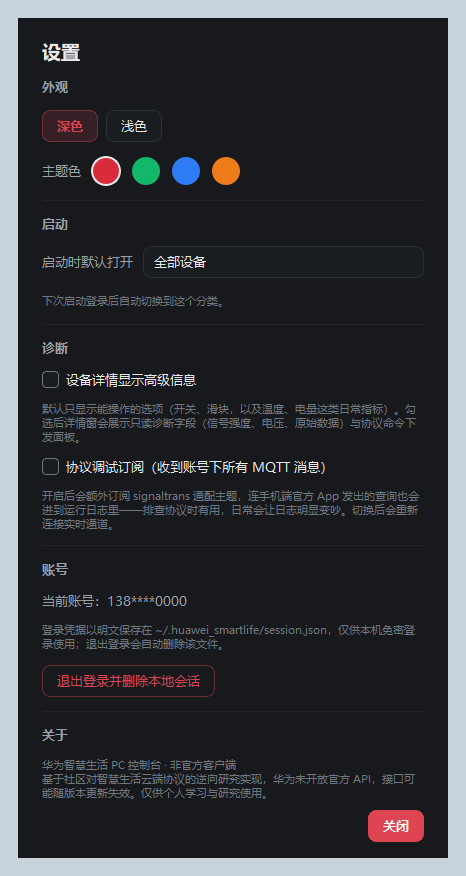
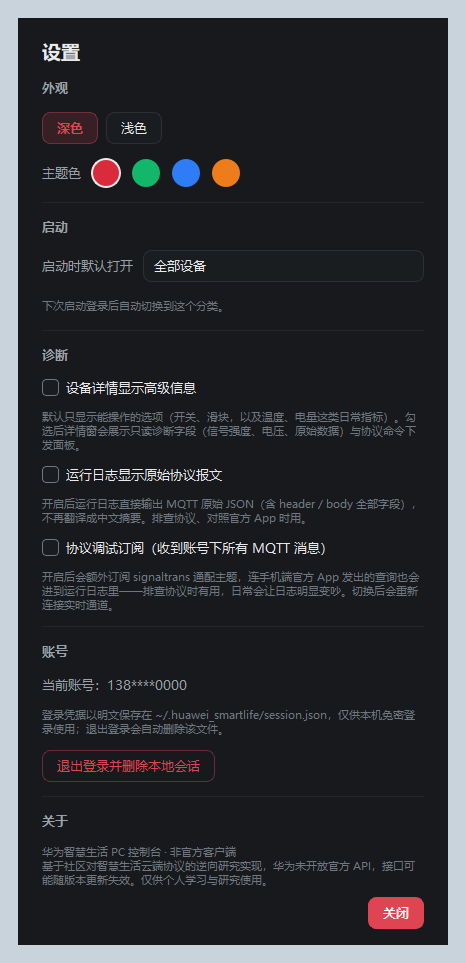
设置增加「运行日志显示原始协议报文」开关
排查 delay/timer 的 -12 时，日志只有中文摘要，看不到设备到底回了什么。

- 设置 → 诊断 新增开关，默认关。打开后遥测/查询/状态/消息都输出完整
  MQTT JSON（indent=2），关掉恢复摘要。只影响显示。
- 打开时自动勾选日志页「显示遥测」，否则原文记在折叠档里根本看不到。
- 日志视图保留行首缩进：HTML 会把连续空格折叠，JSON 贴进去就成一坨，
  现在按前导空格数换成 &nbsp;。
- 自检 191 → 198 项（默认关闭、开启输出 JSON、保留缩进、关闭恢复摘要）。

Changed region(s): [[0.0901, 0.0308, 0.9013, 0.8014], [0.0901, 0.8322, 0.9313, 0.9863], [0.721, 0.7089, 0.9013, 0.7705]]

diff --git a/app/controller.py b/app/controller.py
@@ -51,6 +51,14 @@ SESSION_PATH = os.path.join(APP_DIR, "session.json")
 UI_SETTINGS_PATH = os.path.join(APP_DIR, "ui_settings.json")
 
 
+def _pretty_json(payload: Any) -> str:
+    """原始协议显示用：缩进两格的 JSON。"""
+    try:
+        return json.dumps(payload, ensure_ascii=False, indent=2)
+    except (TypeError, ValueError):
+        return str(payload)
+
+
 def friendly_error(error: BaseException) -> str:
     """把异常翻译成用户能看懂的中文。"""
     if isinstance(error, TransientNetworkError):
@@ -105,6 +113,8 @@ class AppController(QObject):
         # 协议调试：订阅 signaltrans/# 通配，能收到账号下所有客户端的消息。
         # 默认关闭（由主窗口按 UI 设置注入），开启后日志会明显变吵。
         self._capture_enabled = False
+        # 运行日志输出原始 MQTT 报文（而非中文摘要），排查协议时开
+        self._raw_protocol = False
         self._scenes: list[Scene] = []
         self._busy_count = 0
         self._build_client()
@@ -491,6 +501,20 @@ class AppController(QObject):
 
         run_async(work, done, failed)
 
+    def set_raw_protocol(self, enabled: bool) -> None:
+        """开关「日志显示原始协议报文」。只影响显示，不影响收发。"""
+        enabled = bool(enabled)
+        if enabled == self._raw_protocol:
+            return
+        self._raw_protocol = enabled
+        self._emit(
+            self.log,
+            "已开启原始协议显示：日志将输出完整 MQTT 报文，不再翻译。"
+            if enabled
+            else "已关闭原始协议显示，日志恢复中文摘要。",
+            "warning" if enabled else "info",
+        )
+
     def set_capture_enabled(self, enabled: bool, reconnect: bool = True) -> None:
         """开关「协议调试订阅」。
 
@@ -607,31 +631,40 @@ class AppController(QObject):
             size = len(body) if isinstance(body, (list, dict)) else 0
             if method == "GET":
                 # 官方 App / 网关的查询响应（旁听到的），只留可读路径
-                self._emit(self.log, f"【查询】{describe_query(from_uri, size)}", "info")
+                if self._raw_protocol:
+                    self._emit(self.log, f"【查询】{_pretty_json(payload)}", "info")
+                else:
+                    self._emit(self.log, f"【查询】{describe_query(from_uri, size)}", "info")
             else:
                 self._emit(self.log, f"【命令响应】{describe_query(from_uri, size)}", "info")
             return
 
         if notify_type == "deviceDataChanged":
             # 遥测记为 detail：界面默认折叠，勾选「显示遥测」才出现
-            self._emit(
-                self.log,
-                f"[遥测] {describe_telemetry(payload, self._device_display_name)}",
-                "detail",
-            )
+            if self._raw_protocol:
+                text = f"[遥测] {_pretty_json(payload)}"
+            else:
+                text = f"[遥测] {describe_telemetry(payload, self._device_display_name)}"
+            self._emit(self.log, text, "detail")
             result = self.store.apply_telemetry(payload)
             if result is not None:
                 self._emit(self.device_changed, result[0])
             return
 
         if notify_type == "deviceStatus":
-            self._emit(self.log, f"[状态] {describe_query(topic, 0).replace('（0 项）', '')}", "tag")
+            if self._raw_protocol:
+                self._emit(self.log, f"[状态] {_pretty_json(payload)}", "tag")
+            else:
+                self._emit(self.log, f"[状态] {describe_query(topic, 0).replace('（0 项）', '')}", "tag")
             result = self.store.apply_device_status(payload)
             if result is not None and result[1]:
                 self._emit(self.device_changed, result[0])
             return
 
-        self._emit(self.log, f"[消息] {topic}", "tag")
+        if self._raw_protocol:
+            self._emit(self.log, f"[消息] {topic} {_pretty_json(payload)}", "tag")
+        else:
+            self._emit(self.log, f"[消息] {topic}", "tag")
 
     def _on_command_response(
         self,

diff --git a/app/dialogs/settings_dialog.py b/app/dialogs/settings_dialog.py
@@ -53,6 +53,7 @@ class SettingsDialog(QDialog):
     startup_view_changed = Signal(str)
     capture_changed = Signal(bool)
     device_advanced_changed = Signal(bool)
+    raw_protocol_changed = Signal(bool)
     logout_requested = Signal()
 
     def __init__(
@@ -62,6 +63,7 @@ class SettingsDialog(QDialog):
         startup_view: str = "all",
         capture_enabled: bool = False,
         device_advanced: bool = False,
+        raw_protocol: bool = False,
         parent: QWidget | None = None,
     ) -> None:
         super().__init__(parent)
@@ -73,6 +75,7 @@ class SettingsDialog(QDialog):
         self._startup_view = startup_view
         self._capture_enabled = bool(capture_enabled)
         self._device_advanced = bool(device_advanced)
+        self._raw_protocol = bool(raw_protocol)
         self._build()
 
     def _build(self) -> None:
@@ -189,6 +192,19 @@ class SettingsDialog(QDialog):
         advanced_hint.setWordWrap(True)
         layout.addWidget(advanced_hint)
 
+        self._raw_box = QCheckBox("运行日志显示原始协议报文")
+        self._raw_box.setChecked(self._raw_protocol)
+        self._raw_box.toggled.connect(self._on_raw_protocol_toggled)
+        layout.addWidget(self._raw_box)
+
+        raw_hint = QLabel(
+            "开启后运行日志直接输出 MQTT 原始 JSON（含 header / body 全部字段），"
+            "不再翻译成中文摘要。排查协议、对照官方 App 时用。"
+        )
+        raw_hint.setObjectName("Caption")
+        raw_hint.setWordWrap(True)
+        layout.addWidget(raw_hint)
+
         self._capture_box = QCheckBox("协议调试订阅（收到账号下所有 MQTT 消息）")
         self._capture_box.setChecked(self._capture_enabled)
         self._capture_box.toggled.connect(self._on_capture_toggled)
@@ -286,6 +302,10 @@ class SettingsDialog(QDialog):
     def _on_device_advanced_toggled(self, checked: bool) -> None:
         self._device_advanced = bool(checked)
         self.device_advanced_changed.emit(self._device_advanced)
+
+    def _on_raw_protocol_toggled(self, checked: bool) -> None:
+        self._raw_protocol = bool(checked)
+        self.raw_protocol_changed.emit(self._raw_protocol)
 
     def _on_capture_toggled(self, checked: bool) -> None:
         self._capture_enabled = bool(checked)

diff --git a/app/main_window.py b/app/main_window.py
@@ -71,6 +71,7 @@ class MainWindow(QMainWindow):
         self.controller.set_capture_enabled(
             bool(self._settings.get("capture_telemetry")), reconnect=False
         )
+        self.controller.set_raw_protocol(bool(self._settings.get("raw_protocol")))
 
         # 启动后异步尝试恢复会话，避免卡住首屏
         QTimer.singleShot(120, self._bootstrap)
@@ -556,6 +557,7 @@ class MainWindow(QMainWindow):
             self._settings.get("startup_view", "all"),
             capture_enabled=bool(self._settings.get("capture_telemetry")),
             device_advanced=bool(self._settings.get("device_advanced")),
+            raw_protocol=bool(self._settings.get("raw_protocol")),
             parent=self,
         )
         dialog.mode_changed.connect(self._set_mode)
@@ -563,8 +565,24 @@ class MainWindow(QMainWindow):
         dialog.startup_view_changed.connect(self._set_startup_view)
         dialog.capture_changed.connect(self._set_capture)
         dialog.device_advanced_changed.connect(self._set_device_advanced)
+        dialog.raw_protocol_changed.connect(self._set_raw_protocol)
         dialog.logout_requested.connect(self.controller.logout)
         dialog.exec()
+
+    def _set_raw_protocol(self, enabled: bool) -> None:
+        """日志显示原始报文：存盘、通知控制器，并把遥测展开。
+
+        不展开的话，原始报文都记在「遥测」档里，用户开了开关却还是看不到。
+        """
+        self._settings["raw_protocol"] = bool(enabled)
+        self._save_settings()
+        self.controller.set_raw_protocol(bool(enabled))
+        if enabled:
+            self.dashboard.set_log_verbose(True)
+        self.toast.show_toast(
+            "日志已改为输出原始报文" if enabled else "日志已恢复中文摘要",
+            "warning" if enabled else "info",
+        )
 
     def _set_capture(self, enabled: bool) -> None:
         """协议调试开关：存盘并让控制器重连以应用新的订阅范围。"""

diff --git a/_smoke_test.py b/_smoke_test.py
@@ -17,6 +17,7 @@ import sys
 os.environ.setdefault("QT_QPA_PLATFORM", "offscreen")
 
 from PySide6.QtCore import Qt  # noqa: E402
+from PySide6.QtTest import QTest  # noqa: E402
 from PySide6.QtWidgets import QApplication  # noqa: E402
 
 from app import device_spec, dispatch  # noqa: E402
@@ -1017,6 +1018,37 @@ def main() -> int:
         "没有电源服务时不乱认主开关",
         device_spec.find_switch_service(no_power) is None,
     )
+
+    # ---- 32. 「运行日志显示原始协议报文」开关 ----
+    check("原始协议开关默认关闭", controller._raw_protocol is False)
+
+    raw_payload = {
+        "header": {"notifyType": "deviceDataChanged", "from": "data-manager"},
+        "body": {
+            "devId": "dev-heater",
+            "services": [{"sid": "delay", "data": {"num": 1, "enable": 0}}],
+        },
+    }
+    board.clear_logs()
+    board.set_log_verbose(True)
+
+    controller.set_raw_protocol(True)
+    check("开启后状态同步", controller._raw_protocol is True)
+    controller._on_mqtt_message("/smartHome/signaltrans/v2/categories/command", raw_payload)
+    # 日志经 dispatch 投递到主线程，得让事件循环跑一轮
+    QTest.qWait(150)
+    raw_text = board._log_view.toPlainText()
+    check("原始模式输出完整 JSON", '"notifyType"' in raw_text and '"services"' in raw_text)
+    check("原始模式保留缩进", "\n" in raw_text)
+    check("原始模式不再翻译成中文摘要", "空调" not in raw_text)
+
+    board.clear_logs()
+    controller.set_raw_protocol(False)
+    controller._on_mqtt_message("/smartHome/signaltrans/v2/categories/command", raw_payload)
+    QTest.qWait(150)
+    clean_text = board._log_view.toPlainText()
+    check("关闭后恢复中文摘要", "延迟" in clean_text or "数值" in clean_text)
+    check("关闭后不再输出 JSON", '"notifyType"' not in clean_text)
 
     print()
     print(f"SMOKE TEST PASSED ({len(PASSED)} 项)")

diff --git a/app/pages/dashboard_page.py b/app/pages/dashboard_page.py
@@ -129,6 +129,19 @@ class SceneCard(QFrame):
         layout.addWidget(button, 0, Qt.AlignLeft)
 
 
+def _escape_keep_indent(text: str) -> str:
+    """转义 HTML 并保留行首缩进。
+
+    HTML 会把连续空格折叠成一个，原始协议那种缩进 JSON 贴进日志就成一坨了。
+    """
+    lines: list[str] = []
+    for line in str(text).split("\n"):
+        stripped = line.lstrip(" ")
+        indent = len(line) - len(stripped)
+        lines.append("&nbsp;" * indent + html.escape(stripped) if indent else html.escape(line))
+    return "<br/>".join(lines)
+
+
 class DashboardPage(QWidget):
     """主看板。"""
 
@@ -673,7 +686,7 @@ class DashboardPage(QWidget):
             "tag": palette.accent,
             "detail": palette.text_3,
         }.get(kind, palette.text_2)
-        safe = html.escape(message).replace("\n", "<br/>")
+        safe = _escape_keep_indent(message)
         self._log_view.appendHtml(
             f'<span style="color:{palette.text_3}">{stamp}</span> '
             f'<span style="color:{color}">{safe}</span>'

diff --git a/README.md b/README.md
@@ -188,7 +188,7 @@ HUAWEI-SMARTLIFE-PC/
 ├── run.bat                    # 一键启动（自检依赖，pythonw 后台运行）
 ├── run.vbs                    # 无窗口启动（双击即可）
 ├── requirements.txt
-├── _smoke_test.py             # 无头自检（191 项）
+├── _smoke_test.py             # 无头自检（198 项）
 ├── _gen_screenshots.py        # 用虚构数据生成文档截图
 ├── huawei_smartlife/          # 协议层（不依赖 GUI）
 │   ├── constants.py           # 域名 / App 标识 / REST 路径 / MQTT 参数
@@ -322,7 +322,9 @@ python _smoke_test.py     # 无需显示环境、不联网
 - 查询响应也翻成可读路径：`【查询】网关 · 网络 · WiFi 信息（5 项）`，
   不再把 `/devices/<uuid>/services/...` 整条打出来；
 - 遥测默认**折叠**，勾选日志页右上角「显示遥测」才展开；
-- 信封原文降级到 `app.log` 的 DEBUG 级，需要时把日志级别调低即可。
+- 想直接看原始报文：**设置 → 诊断 → 运行日志显示原始协议报文**。打开后
+  日志改为输出完整 MQTT JSON（缩进两格、保留层级），并自动展开遥测；
+  关掉即恢复中文摘要。只影响显示，不影响收发。
 
 > 翻译逻辑在 `app/telemetry_text.py`，不依赖 Qt，可单独测（自检里有 24 条覆盖）。
 
